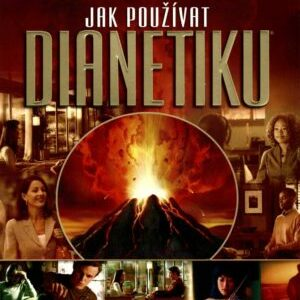
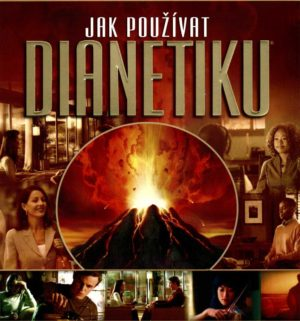
Opravit celé obaly DVD a hover knih

diff --git a/styles.css b/styles.css
@@ -95,15 +95,14 @@ section.tight{padding:56px 0}
 @media(max-width:600px){.services-grid{grid-template-columns:1fr}}
 .card{border:1px solid var(--line);background:#fff;display:flex;flex-direction:column}
 .card .ph{aspect-ratio:4/3;overflow:hidden}
-.card .ph img{width:100%;height:100%;object-fit:cover;transition:transform .35s}
-.card .ph img[src*="assets/eshop/book-"]:not([src$="book-dianetika-55.jpg"]){transform:scale(3.1);transform-origin:center}
+.card .ph img{width:100%;height:100%;object-fit:cover;transition:transform .35s;--media-scale:1;transform:scale(var(--media-scale))}
+.card .ph img[src*="assets/eshop/book-"]:not([src$="book-dianetika-55.jpg"]){--media-scale:3.1;transform-origin:center}
 .product-dvd{height:280px;display:grid;place-items:center}
-.product-dvd img{width:auto!important;max-width:100%;height:100%!important;object-fit:contain!important}
-.card:hover .product-dvd img{transform:none}
+.product-dvd img{width:auto!important;max-width:100%;height:100%!important;object-fit:contain!important;transform:scale(1)!important}
 /* dlaždice kurzů — čtvercové fotky, ukázat celé bez ořezu */
 .card.kurz .ph{aspect-ratio:1/1}
 .card.kurz .ph img{object-fit:cover}
-.card:hover .ph img{transform:scale(1.04)}
+.card:hover .ph img{transform:scale(calc(var(--media-scale) * 1.04))}
 .card .body{padding:24px 26px 28px;flex:1;display:flex;flex-direction:column;gap:10px}
 .card p{font-size:14.5px;color:var(--grey)}
 .card .more{margin-top:auto;padding-top:12px;font-size:14px;font-weight:700;color:var(--blue-deep)}
